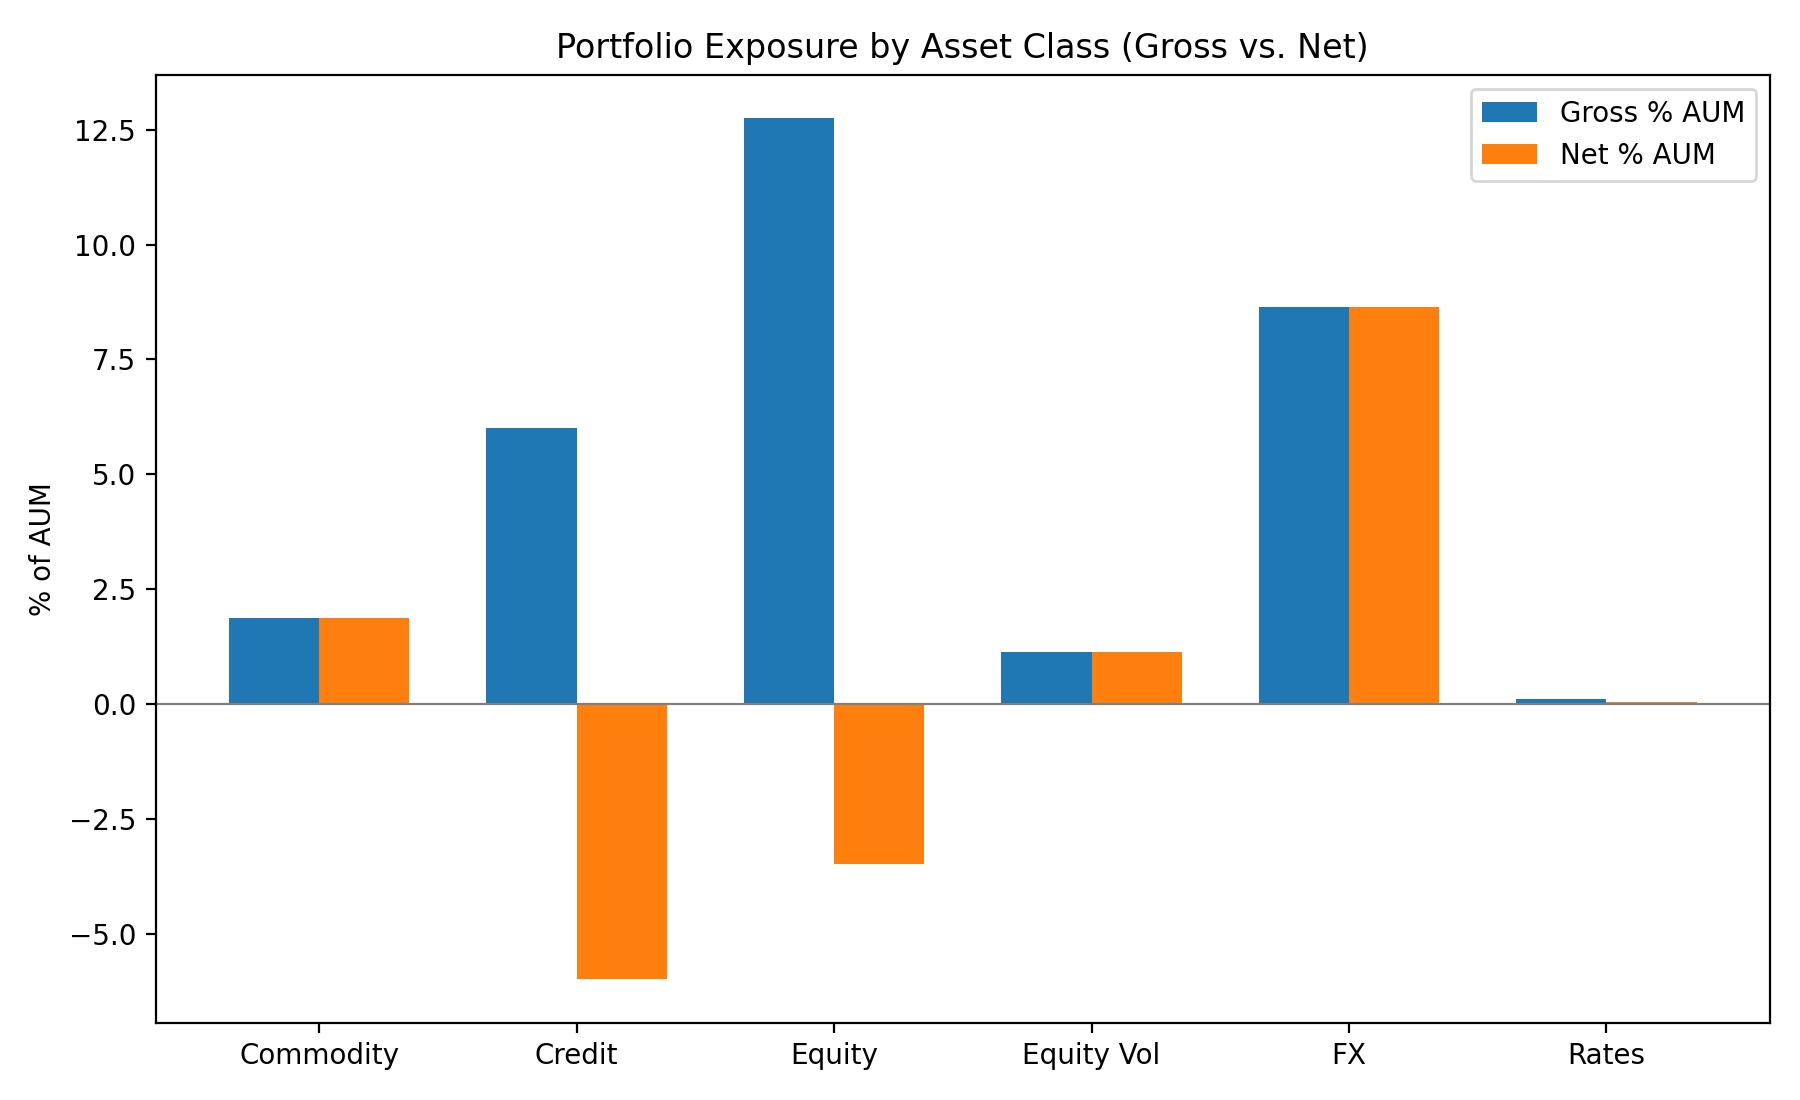
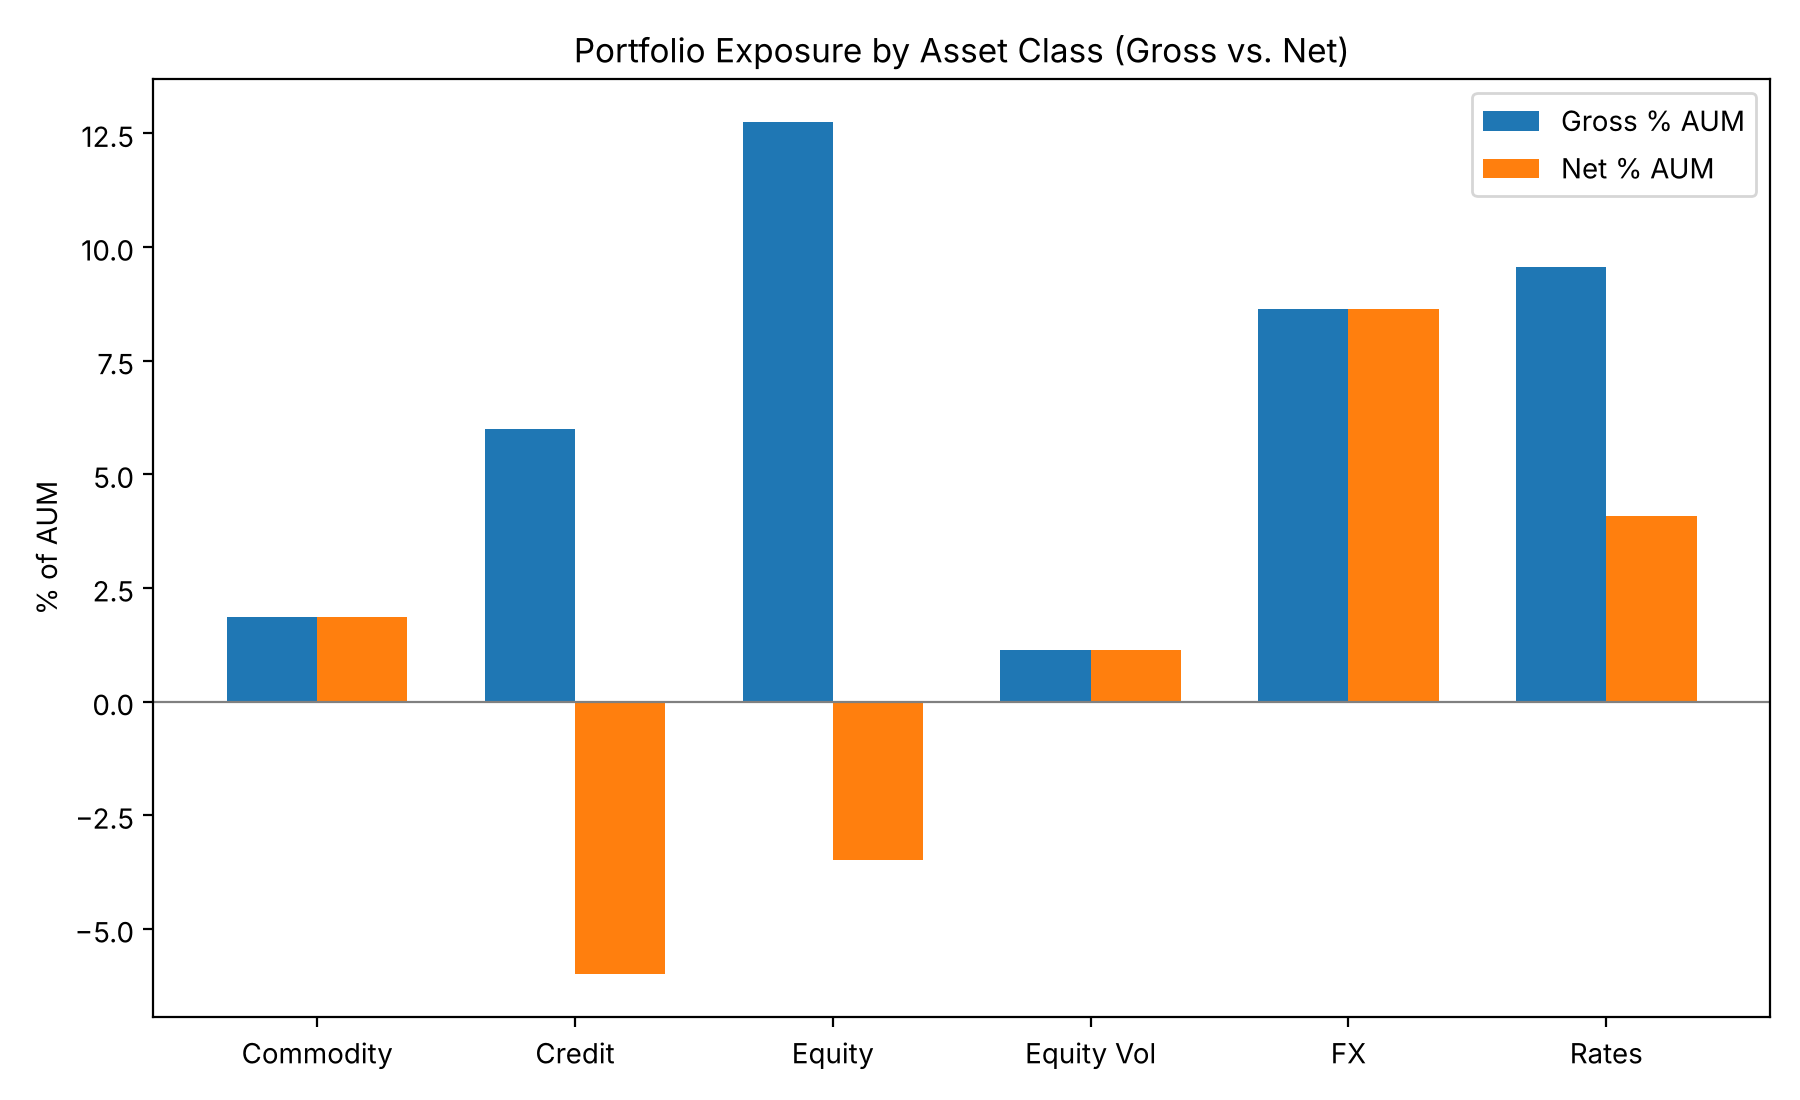
Fix 10Y-equivalent rate exposure (was 100x too small)
The bond future and IRS exposures used `dv01 * 10_000 / 850`, mixing two
forms of the 10Y-equivalent formula: 850 is the 10Y DV01 per $1mm of face,
not the 10Y duration (~8.5) that belongs under 10,000 * DV01. Replace with
a helper that divides DV01 by the 10Y DV01 per $1 of face.

ZN1: -$68.7k -> -$6.87mm (-2.75% AUM)
IRS1: +$170.6k -> +$17.06mm (+6.82% AUM)
Rates gross/net: 0.10%/0.04% -> 9.57%/4.08% of AUM

Sensitivities, margin and stress test were unaffected (they use DV01
directly) and their outputs are left unchanged.

Claude-Session: https://claude.ai/code/session_01RceETQwmWgTTNzsmtgfWcz

Changed region(s): [[0.0, 0.0309, 0.9956, 0.9891], [0.4667, 0.7727, 0.4978, 0.8036]]

diff --git a/src/portfolio_risk/exposure_report.py b/src/portfolio_risk/exposure_report.py
@@ -43,6 +43,21 @@ AUM = 250_000_000.0
 VALUATION_DATE = pd.Timestamp("2026-09-30")
 RATE = 0.043
 
+# Benchmark for 10Y-equivalent rate exposure: DV01 of $1mm face of the
+# on-the-run 10Y Treasury, i.e. ~$850 per bp (modified duration ~8.5).
+TEN_YEAR_DV01_PER_MM = 850.0
+
+
+def _ten_year_equivalent(dv01: float) -> float:
+    """Face amount of 10Y Treasuries with the same DV01 as the position.
+
+    10Y-equivalent = DV01 / (10Y DV01 per $1 of face)
+                   = DV01 / (TEN_YEAR_DV01_PER_MM / 1_000_000)
+    which is the same as Open Protocol's 10,000 * DV01 / D_10Y, because a
+    near-par bond's DV01 per $1 of face is D_10Y / 10,000.
+    """
+    return dv01 / TEN_YEAR_DV01_PER_MM * 1_000_000
+
 
 def build_synthetic_portfolio() -> list[dict]:
     """A made-up 9-position multi-asset book spanning Equity, Rates, Credit,
@@ -146,10 +161,10 @@ def build_exposure_table(portfolio: list[dict]) -> pd.DataFrame:
         elif t == "Variance Swap":
             exposure = _var_swap_aged_vega_notional(pos)
         elif t == "Bond Future":
-            exposure, _ = _bond_future_value(pos)
-            exposure = exposure * 10_000 / 850.0  # 10Y-equivalent, using an $850/bp-per-$1mm 10Y benchmark DV01
+            dv01_total, _ = _bond_future_value(pos)
+            exposure = _ten_year_equivalent(dv01_total)
         elif t == "IRS":
-            exposure = pos["dv01"] * 10_000 / 850.0
+            exposure = _ten_year_equivalent(pos["dv01"])
         elif t == "CDX":
             exposure = pos["notional_usd"]
         elif t == "FX Forward":
